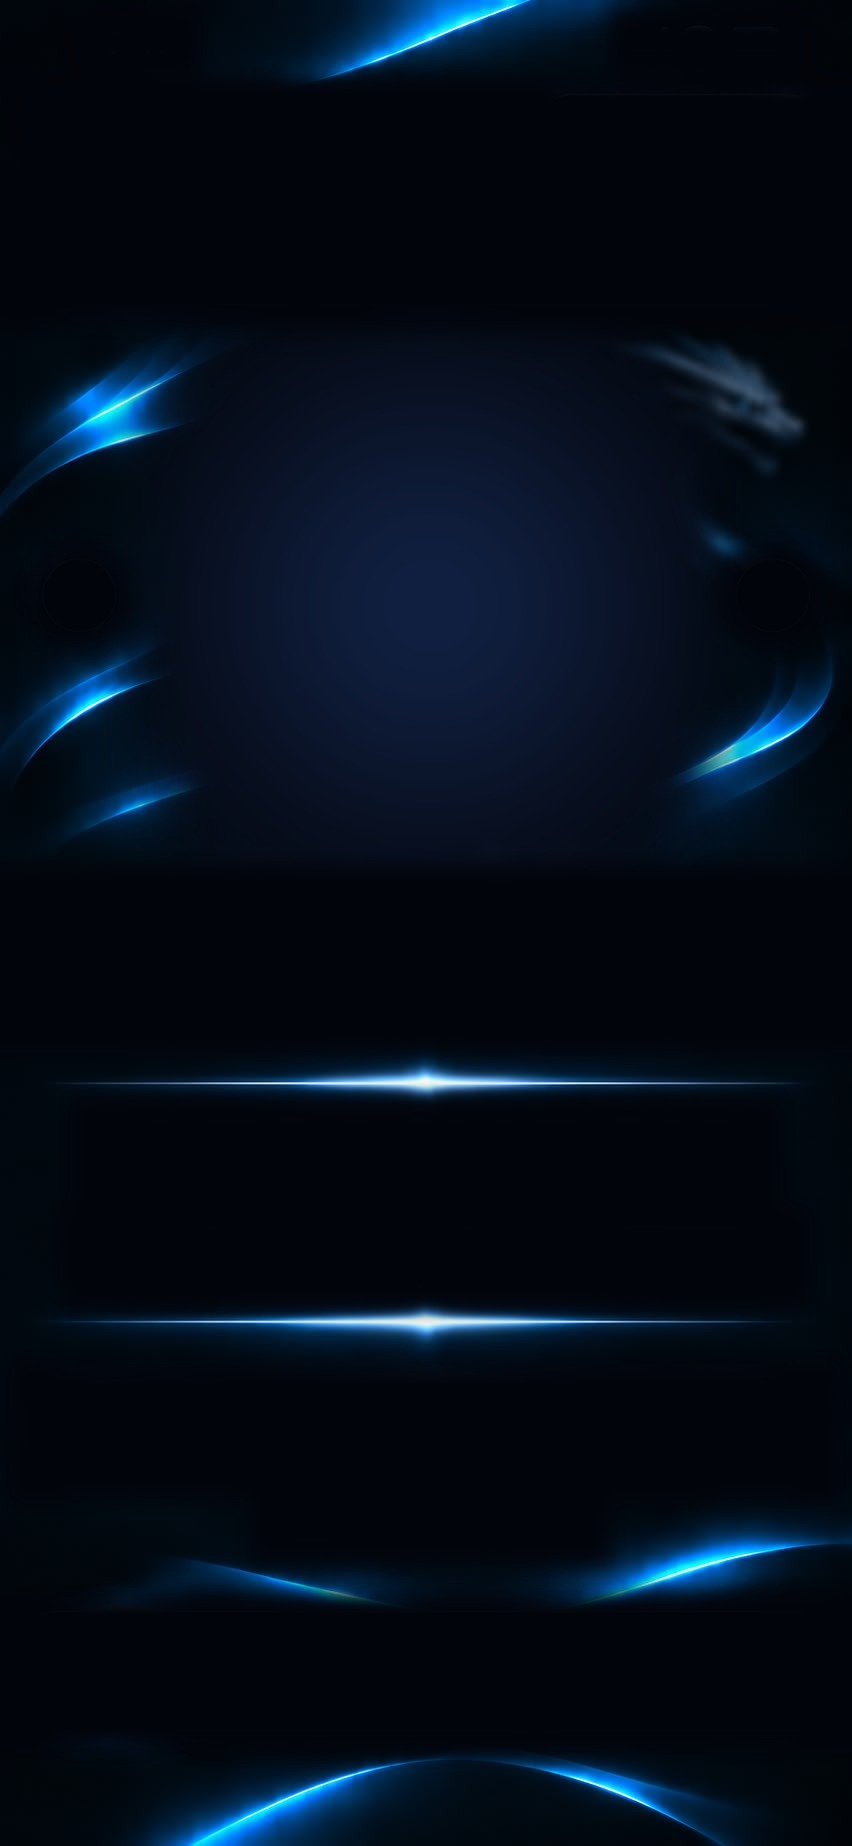
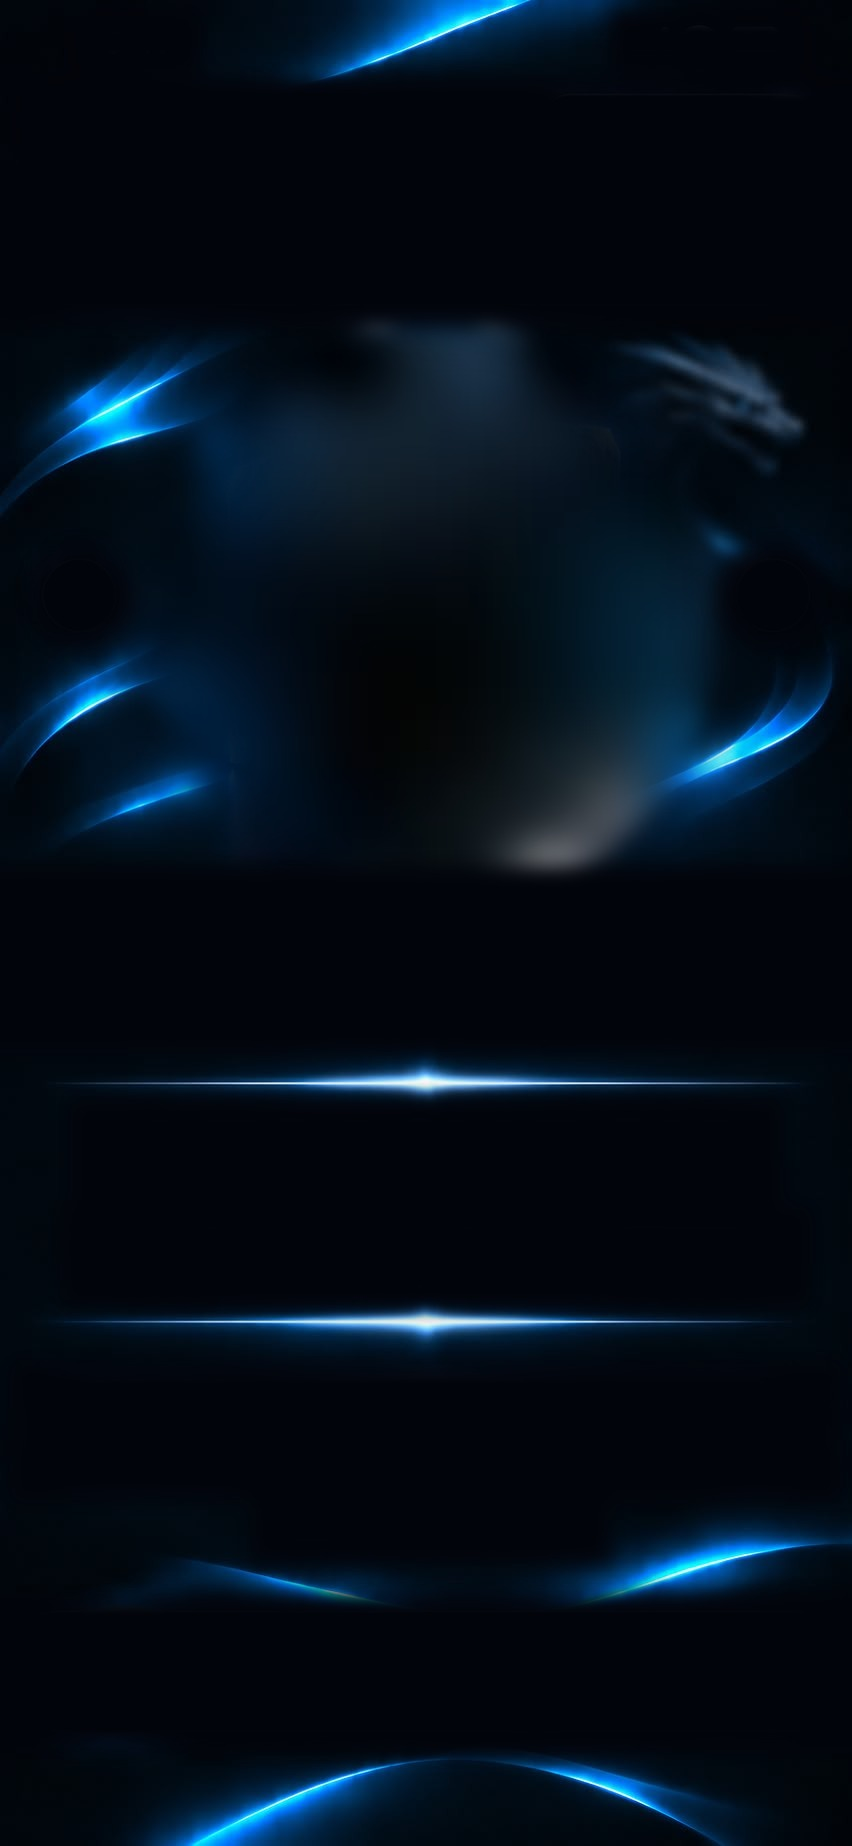
Boxes float on the site background: inpainted background behind the box, no glow/floor

diff --git a/index.html b/index.html
@@ -626,6 +626,10 @@ html,body{overscroll-behavior:none}
 .nav button.on{color:#fff!important;font-weight:700!important}
 .nav button.on img{opacity:1}
 .nav button.on:after{display:none!important}
+
+/* boxes float on the site background: no glow / floor behind them */
+.hero .glow,.hero .floor,.hero .track{display:none!important}
+#hero3d,#hero3dg{background:transparent!important}
 </style></head>
 <body>
 <div class="stage-glow" id="sg"></div>
